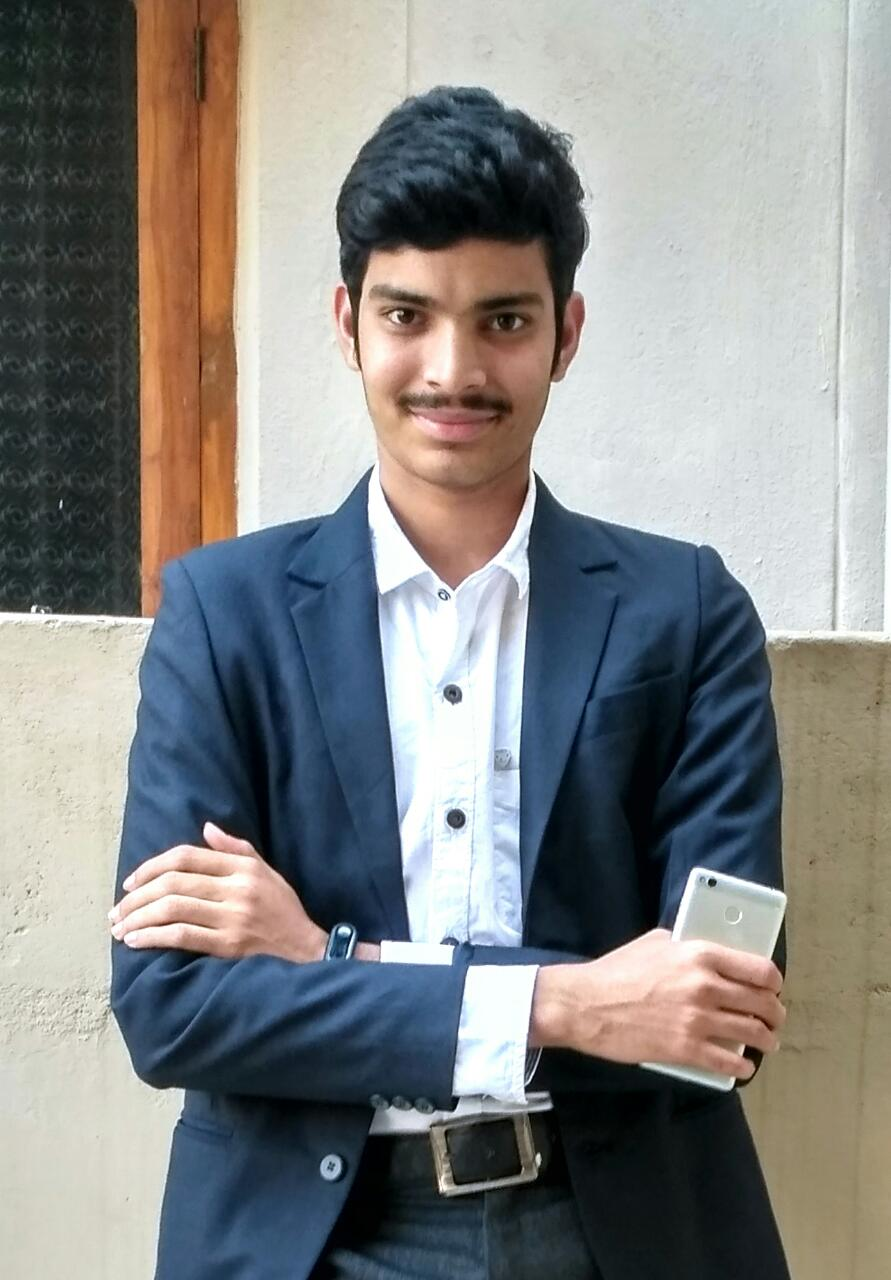
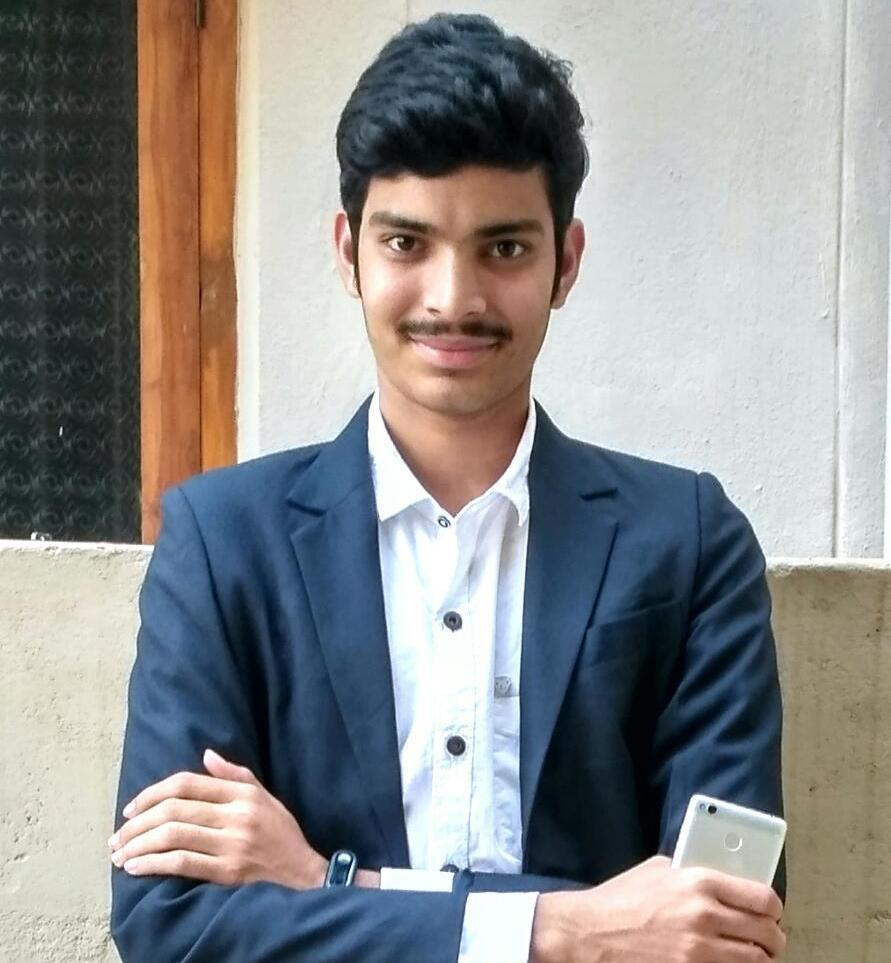
added images

diff --git a/index.html b/index.html
@@ -769,7 +769,7 @@ $(document).ready(function() {
     <div class="caption">
 	<h3>P. Aparna</h3>
     </div>
-    <img class="thumbnail img-responsive" src="arc2k18/arc1.jpeg">
+    <img class="thumbnail img-responsive" src="arc2k18/arc11.jpeg">
   </div>
   </div>
 
@@ -778,7 +778,7 @@ $(document).ready(function() {
     <div class="caption">
 	<h3>K. Yogesh</h3>
     </div>
-    <img class="thumbnail img-responsive" src="arc2k18/arc1.jpeg">
+    <img class="thumbnail img-responsive" src="arc2k18/arc5.jpeg">
   </div>
   </div>
 
@@ -787,7 +787,7 @@ $(document).ready(function() {
     <div class="caption">
 	<h3>Naga Srinivas</h3>
     </div>
-    <img class="thumbnail img-responsive" src="arc2k18/arc1.jpeg">
+    <img class="thumbnail img-responsive" src="arc2k18/arc9.jpeg">
   </div>
   </div>
   
@@ -796,7 +796,7 @@ $(document).ready(function() {
     <div class="caption">
 	<h3>Sirisha</h3>
     </div>
-    <img class="thumbnail img-responsive" src="arc2k18/arc1.jpeg">
+    <img class="thumbnail img-responsive" src="arc2k18/arc10.jpeg">
   </div>
   </div>
 
@@ -805,7 +805,7 @@ $(document).ready(function() {
     <div class="caption">
 	<h3>T. Divya</h3>
     </div>
-    <img class="thumbnail img-responsive" src="arc2k18/arc1.jpeg">
+    <img class="thumbnail img-responsive" src="arc2k18/arc15.jpg">
   </div>
   </div>
 <div class="col-xs-12 col-sm-6 col-md-2">
@@ -813,7 +813,7 @@ $(document).ready(function() {
     <div class="caption">
 	<h3>Amarnath</h3>
     </div>
-    <img class="thumbnail img-responsive" src="arc2k18/arc1.jpeg">
+    <img class="thumbnail img-responsive" src="arc2k18/arc8.jpeg">
   </div>
   </div>
     </div>
